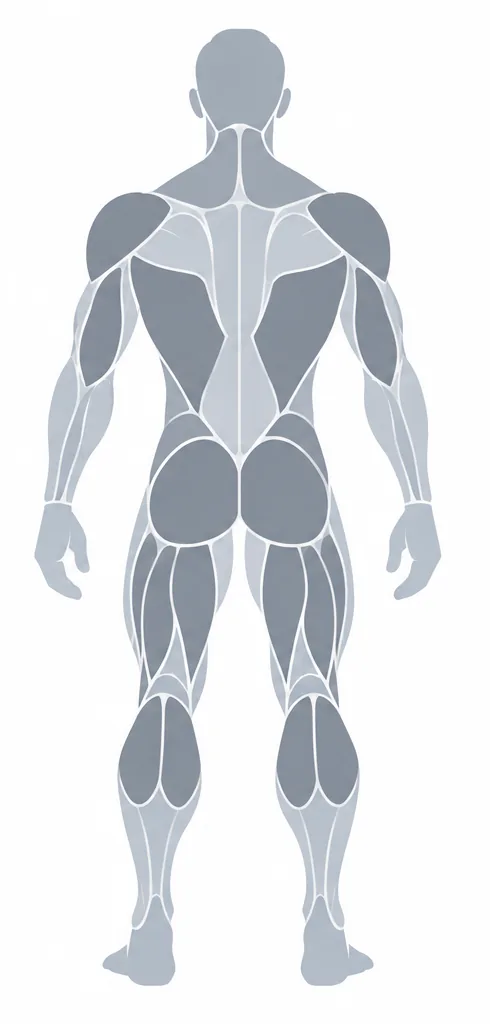
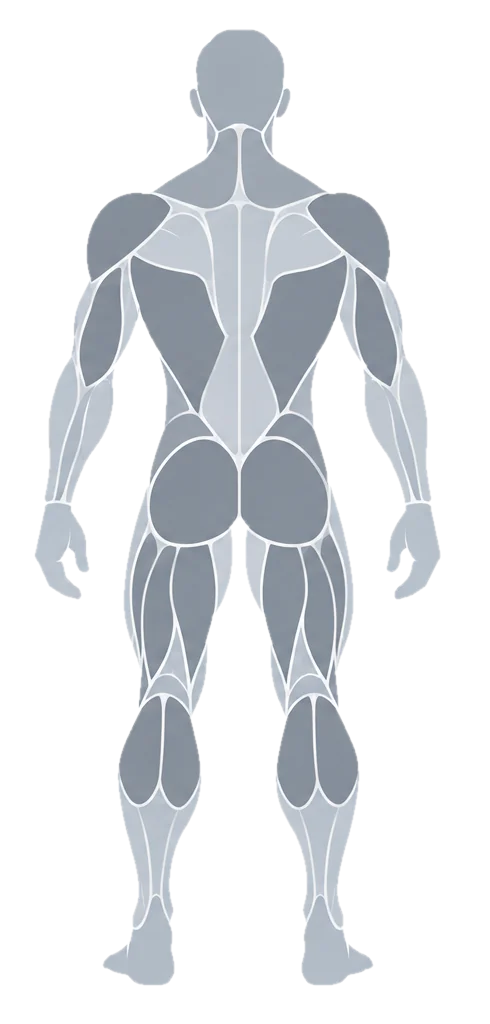
W fit: mapa muscular sin fondo blanco, usa el color de la app (v0.25.1)
Claude-Session: https://claude.ai/code/session_01DAXZ6WguYfCahuDrctRoqn

diff --git a/css/fit.css b/css/fit.css
@@ -202,8 +202,8 @@ button.f-card { cursor: pointer; width: 100%; }
 .f-ex .grow { flex: 1; }
 
 /* ---- Mapa muscular ---- */
-.f-mm { display: grid; grid-template-columns: 1fr 1fr; gap: 0; background: #fff; border-radius: 12px; padding: 8px 2px 6px; margin: 10px 0 8px; }
-.f-mm-view small { display: block; text-align: center; font-size: 11px; letter-spacing: .14em; text-transform: uppercase; color: #5d6670; }
+.f-mm { display: grid; grid-template-columns: 1fr 1fr; gap: 0; padding: 8px 2px 6px; margin: 10px 0 8px; }
+.f-mm-view small { display: block; text-align: center; font-size: 11px; letter-spacing: .14em; text-transform: uppercase; color: inherit; opacity: .6; }
 .f-mm svg { display: block; width: 100%; height: auto; }
 .f-mm path { fill: #e0242b; }
 .f-mm-leg { display: flex; flex-wrap: wrap; align-items: center; gap: 6px 14px; font-size: 12px; opacity: .85; }

diff --git a/js/core/backup.js b/js/core/backup.js
@@ -6,7 +6,7 @@
 import { exportAll, replaceAll, hasSectionData } from './store.js';
 import { getSettings, setSettings } from './settings.js';
 
-export const APP_VERSION = '0.25.0';
+export const APP_VERSION = '0.25.1';
 const FORMAT = 1; // sube si algún día cambia la forma del archivo
 const REMINDER_DAYS = 30;
 

diff --git a/sw.js b/sw.js
@@ -2,7 +2,7 @@
 // Estrategia: si hay internet, se usa siempre la versión más nueva (y se guarda);
 // si no hay internet, se usa la última versión guardada.
 
-const CACHE = 'wibi-v30';
+const CACHE = 'wibi-v31';
 
 const ASSETS = [
   './',
